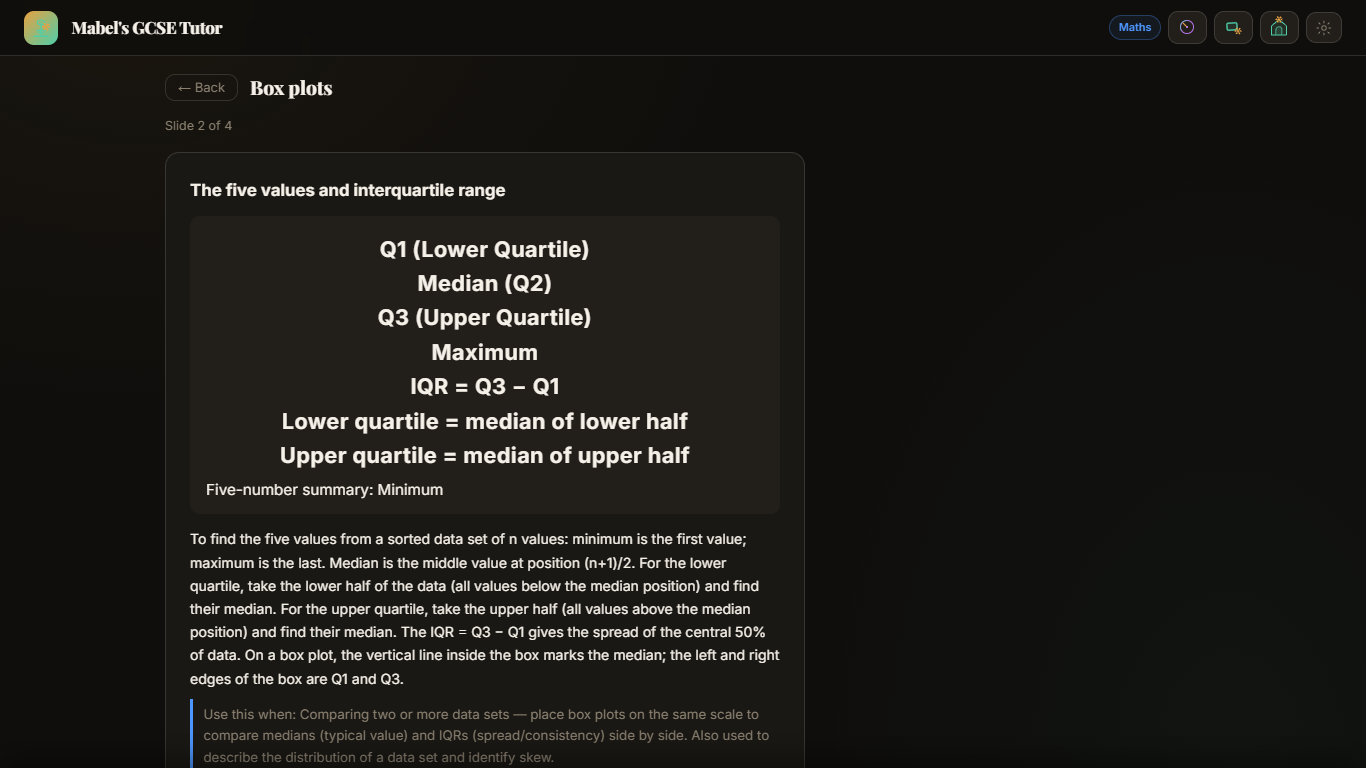
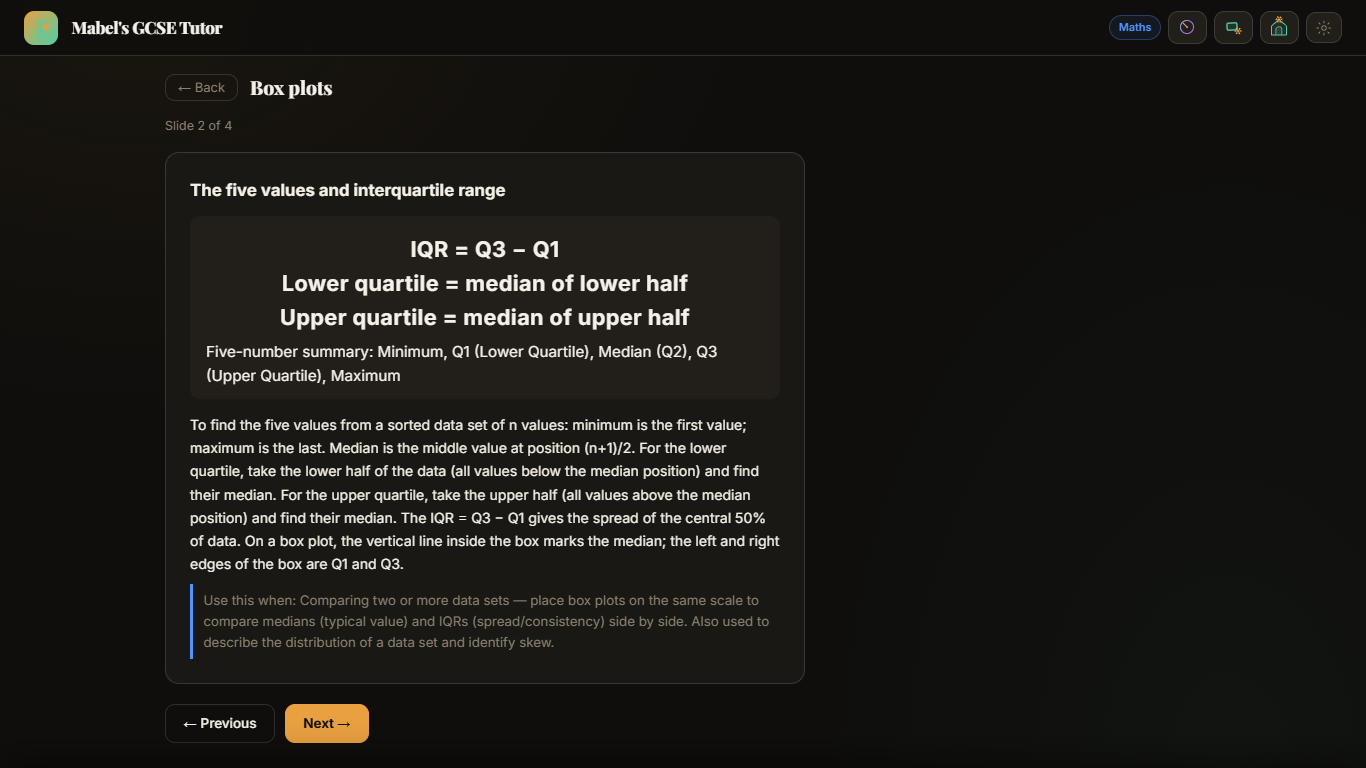
stat-boxplots slide 2 formula (Jason approved): five-number list separated by ", " instead of " | ", so "Five-number summary: Minimum, Q1 (Lower Quartile), Median (Q2), Q3 (Upper Quartile), Maximum" shows as one line under the three formulas; meaning unchanged. lesson-auditor PASS; audit-lessons ide

Changed region(s): [[0.123, 0.3125, 0.5842, 1.0]]

diff --git a/docs/STATE.md b/docs/STATE.md
@@ -139,7 +139,7 @@ Checked against the repo 2026-10-16 at 8c8ab0f.
 | AI lesson default (2.5a) | ✓ 8faa9b0: `TEACH_FIRST` in js/lessons.js (true): a TEACH_ENABLED lesson opens as the AI lesson when a key is saved; "Show me the slides instead" in its header opens the slides in one tap. This was already the routing before 2.5a; the flag makes it switchable. `false` opens the slides first with "Learn this with the AI tutor →" in their header. tools/check-teach-default.js (headless Chrome, API stubbed): both flag values × key / no key, slides ↔ AI lesson both ways, no page errors — 24/24 on p1-power and p2-static after 2.5b. | 2.5a |
 | Teach-mode shared fix 2.5c | ✓ 2a1f85b: `create({ fix25 })` in js/teach-core.js, on by default; `fix25: false` keeps the old path. On teaching turns, a reply is asked for again (like the yes/no check) if its question offers an either/or choice, it has no question, or it has more than one question; "Good question, but…" and openers such as "Brilliant —", "Excellent!", "Perfect." are stripped unless they say what was right. Found by the P1 and P2 runs (4 either/or, 1 no question, 1 two questions, 2 stock praise). Seen, not a shared-code fault: in the first p2-static run the tutor said a charged polythene rod loses its charge "straight away" when touched to a door handle, then that the rod stays charged — a model content error; not repeated in the re-run. | 2.5c |
 | Defect 11 new lessons | ✓ written 2026-10-17 (task 2.4) from data/spec/physics.md, one commit per lesson: p5-elasticity (4.5.3), p5-moments (4.5.4), p5-fluid-pressure (4.5.5), p6-black-body (4.6.3), new topic P8 Space physics with p8-solar-system (4.8.1.1, 4.8.1.3), p8-life-cycle-of-a-star (4.8.1.1, 4.8.1.2; stage names from the specification's life-cycle diagram, an image not in the .md), p8-red-shift (4.8.2). Additions: p5-forces-motion keyPoints[5] contact and non-contact forces (4.5.1.2); p6-sound keyPoints[4] seismic waves (4.6.1.5). Scanner clean on every new lesson and key point (the existing checkpoint-key ERRORs in p5-forces-motion and p6-sound predate 2.4). Not yet spec-checked or audited: that happens in each topic's loop. 4.3.3.3 closed 2026-10-18 in the P3 loop: p3-pressure keyPoints[3] "Doing work on a gas". | 2.4 |
-| Maths track | ✓ task 2.2 (2026-10-16): all 600 questions recomputed by tools/maths-recompute.js --all (functions in tools/maths-recompute-fns.js, written from the question text and step prompts with stored answers and hints hidden). Before (bank at fd0f6f1, report tools/maths-recompute-all-report-fd0f6f1.md): 1385 checked steps, 15 wrong, 12 mismatch (prompt asks for something else) = 27/1385 = 1.9%, in 22 of 600 questions; a further 131 steps ambiguous (the prompt did not say which of several right numbers to enter). After (tools/maths-recompute-all-report.md): 1375 checked steps (10 comment steps that checked an unrelated number are now checkType skip), 0 wrong, 0 mismatch, 0 ambiguous. Six questions rewritten because their figures or reasoning were wrong (pyth-C03, cth-C02, cth-C04, trig-C02, trig-C04, vec-C04 — vec-C04 asked for a proof of something false); grd-C02's figures made consistent. marks = steps.length for all 600 (87 changed, matching defect 8's count). auditStatus 'verified' for 567; the other 33 have no step the app checks (all statements), so nothing could be recomputed. Every change with old and new values: tools/maths-fix-log.md. Not checked: the text of checkType skip steps (vec-C04 was found by reading, not by the tool); fractions typed as a/b are accepted only when they equal a step's displayAnswer exactly (js/maths.js _matchAnswer), so x = 10/3 typed as "10/3" is still marked wrong. The functions and the fixes were written in the same session, so the after-run checks the bank against my own reading of each prompt; the before-run on fd0f6f1 is the same functions on the untouched bank. Formula boxes (2026-11-26, brief "maths formula boxes"): js/maths.js `_formulaBoxHtml` splits `slide.formula` on " | " (28 slide-2 formulas in 28 of 41 lesson files, 2–8 parts) into one line per part: formula parts centred, bold, nowrap, min(1.35rem, 4.5vw); sentence parts (contain ": " or over 40 chars with no "=") at 0.95rem, left, under the formulas; box overflow-x auto. No " | " → same markup as before. No lesson JSON edited; no other renderer of a maths formula field in js/ (count 1). maths.js v6. Screens: tools/site-test-runs/2026-11-26/maths-formula/. Worded rules wrap (Jason chose, same day; maths.js v7): a formula part with 2+ words of 3+ letters (not sin/cos/tan) wraps, only at a space next to a word, so symbol runs like "(n − 2) × 180°" stay whole; 51 of 69 formula lines are worded; boxes that scroll: 0 of 28 at 1366px and at 390px (were 9 lines / 43 lines clipped). Open: stat-boxplots uses " | " inside its five-number list, so "Five-number summary: Minimum" drops below Q1/Median/Q3/Maximum. Needs a JSON edit (not done). | 2.2 |
+| Maths track | ✓ task 2.2 (2026-10-16): all 600 questions recomputed by tools/maths-recompute.js --all (functions in tools/maths-recompute-fns.js, written from the question text and step prompts with stored answers and hints hidden). Before (bank at fd0f6f1, report tools/maths-recompute-all-report-fd0f6f1.md): 1385 checked steps, 15 wrong, 12 mismatch (prompt asks for something else) = 27/1385 = 1.9%, in 22 of 600 questions; a further 131 steps ambiguous (the prompt did not say which of several right numbers to enter). After (tools/maths-recompute-all-report.md): 1375 checked steps (10 comment steps that checked an unrelated number are now checkType skip), 0 wrong, 0 mismatch, 0 ambiguous. Six questions rewritten because their figures or reasoning were wrong (pyth-C03, cth-C02, cth-C04, trig-C02, trig-C04, vec-C04 — vec-C04 asked for a proof of something false); grd-C02's figures made consistent. marks = steps.length for all 600 (87 changed, matching defect 8's count). auditStatus 'verified' for 567; the other 33 have no step the app checks (all statements), so nothing could be recomputed. Every change with old and new values: tools/maths-fix-log.md. Not checked: the text of checkType skip steps (vec-C04 was found by reading, not by the tool); fractions typed as a/b are accepted only when they equal a step's displayAnswer exactly (js/maths.js _matchAnswer), so x = 10/3 typed as "10/3" is still marked wrong. The functions and the fixes were written in the same session, so the after-run checks the bank against my own reading of each prompt; the before-run on fd0f6f1 is the same functions on the untouched bank. Formula boxes (2026-11-26, brief "maths formula boxes"): js/maths.js `_formulaBoxHtml` splits `slide.formula` on " | " (28 slide-2 formulas in 28 of 41 lesson files, 2–8 parts) into one line per part: formula parts centred, bold, nowrap, min(1.35rem, 4.5vw); sentence parts (contain ": " or over 40 chars with no "=") at 0.95rem, left, under the formulas; box overflow-x auto. No " | " → same markup as before. No lesson JSON edited; no other renderer of a maths formula field in js/ (count 1). maths.js v6. Screens: tools/site-test-runs/2026-11-26/maths-formula/. Worded rules wrap (Jason chose, same day; maths.js v7): a formula part with 2+ words of 3+ letters (not sin/cos/tan) wraps, only at a space next to a word, so symbol runs like "(n − 2) × 180°" stay whole; 51 of 69 formula lines are worded; boxes that scroll: 0 of 28 at 1366px and at 390px (were 9 lines / 43 lines clipped). stat-boxplots slide 2 (same day, Jason approved): the five-number list in `formula` now uses ", " instead of " | ", so "Five-number summary: Minimum, Q1 (Lower Quartile), Median (Q2), Q3 (Upper Quartile), Maximum" is one sentence line under the three formulas. | 2.2 |
 
 ## First-time learner brief (2026-10-18)
 
